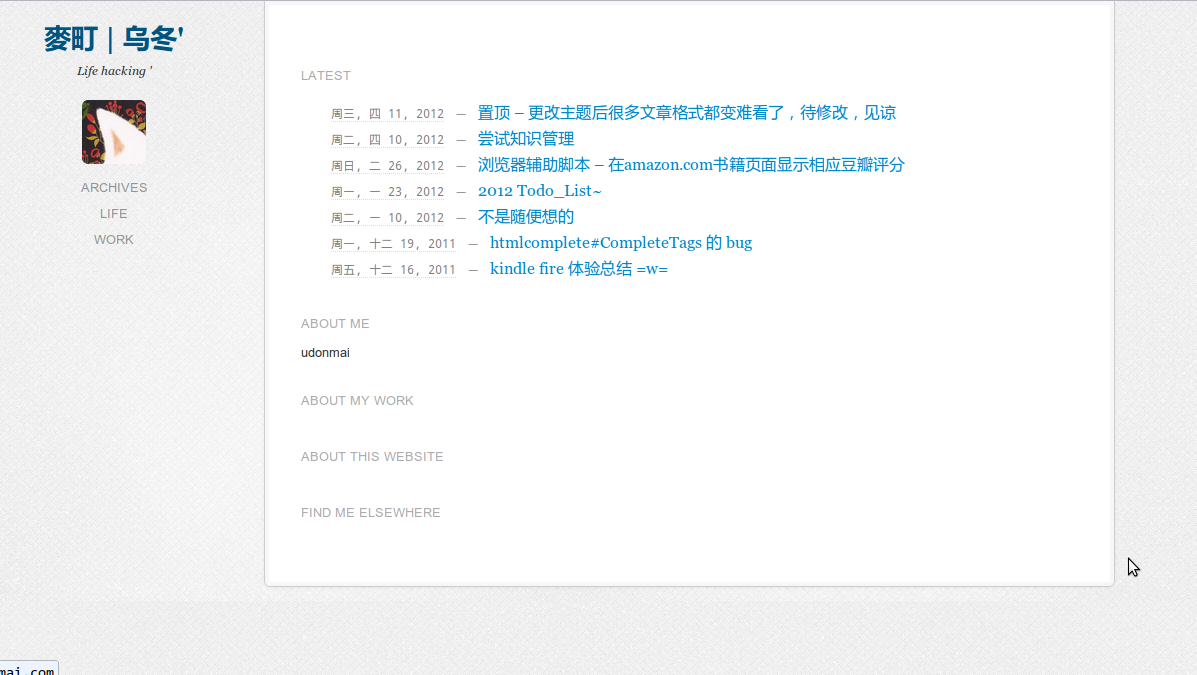
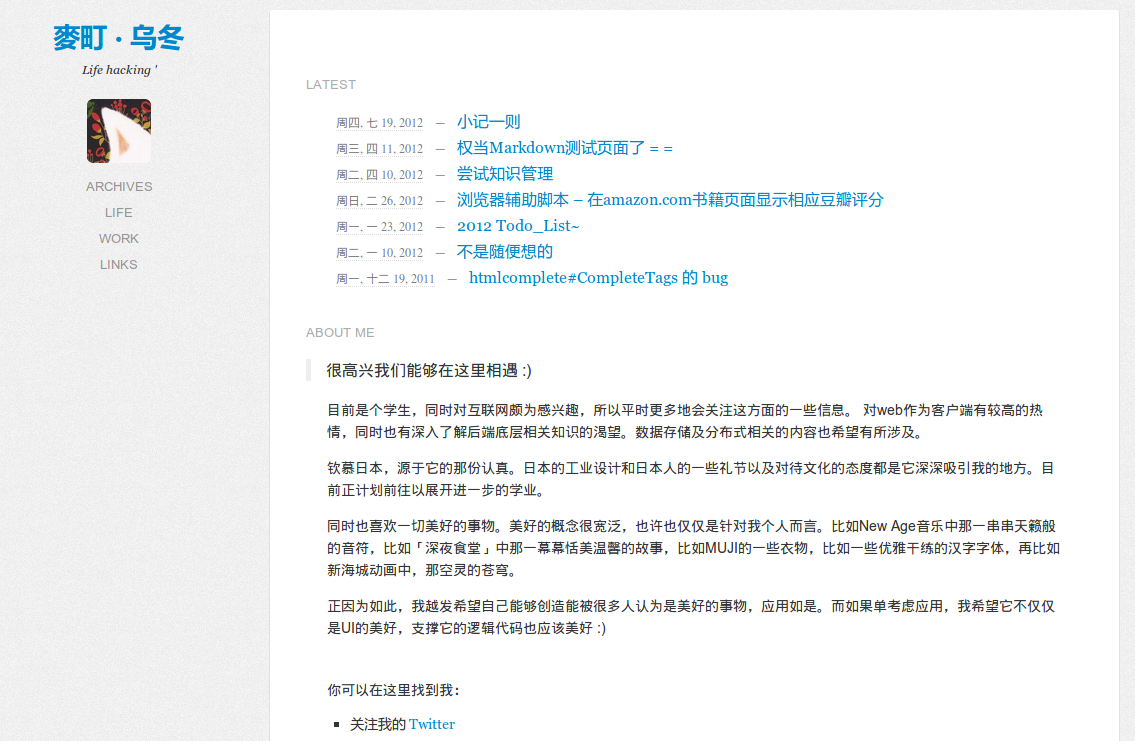
beta 0.9.1

diff --git a/style.css b/style.css
@@ -109,10 +109,12 @@ body {
 #content ul {
 	list-style:square;
 	margin:10px 30px;
+	font-size:1.32em;
 }
 
 #content ol {
 	margin:10px 30px;
+	font-size:1.32em;
 }
 
 #content li {
@@ -128,6 +130,16 @@ body {
 }
 
 h2.entry-title {
+	font-weight: normal;
+	text-align: left;
+	font-size: 13px;
+	margin-bottom: 1px;
+	color: #ADADAD;
+	text-transform: uppercase;
+	font-family: Helvetica, arial, sans-serif;
+}
+
+h2.page-title {
 	font-weight: normal;
 	text-align: left;
 	font-size: 13px;
@@ -290,10 +302,11 @@ li.linkcat ul, li.linkcat a {
 
 .blogroll li {
 	font-size: 15px;
-	text-align:right;
+	text-align: right;
 	margin-top: 1em;
 	padding-bottom: 0.2em;
 	border-bottom: 1px dashed rgba(151, 150, 150, 0.19999999999999996);
+	list-style: none;
 }
 
 .blogroll li a {
@@ -301,7 +314,13 @@ li.linkcat ul, li.linkcat a {
 	width:150px;
 }
 
+::selection {
+	background: #426f91;
+	color: white;
+}
+
 /* reset */
+
 p.h2 {
 	line-height:36px;
 	font-weight:normal;
